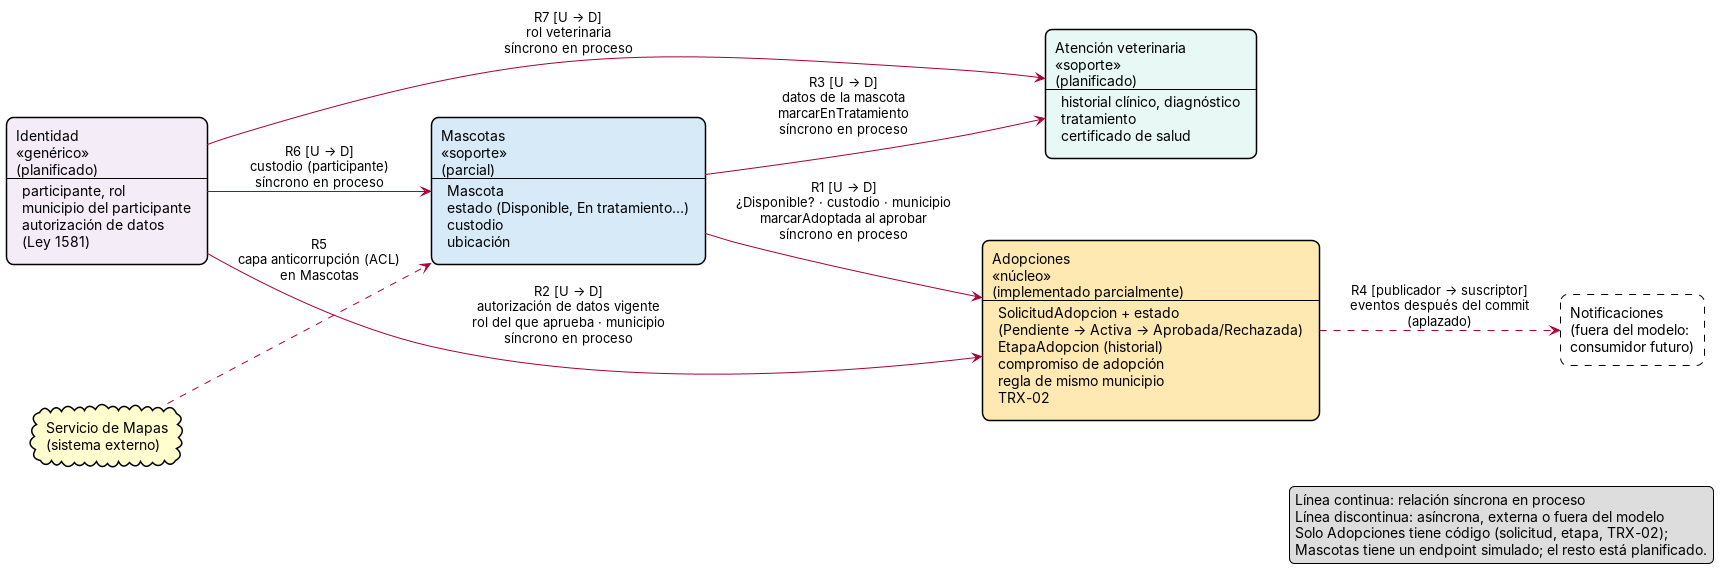
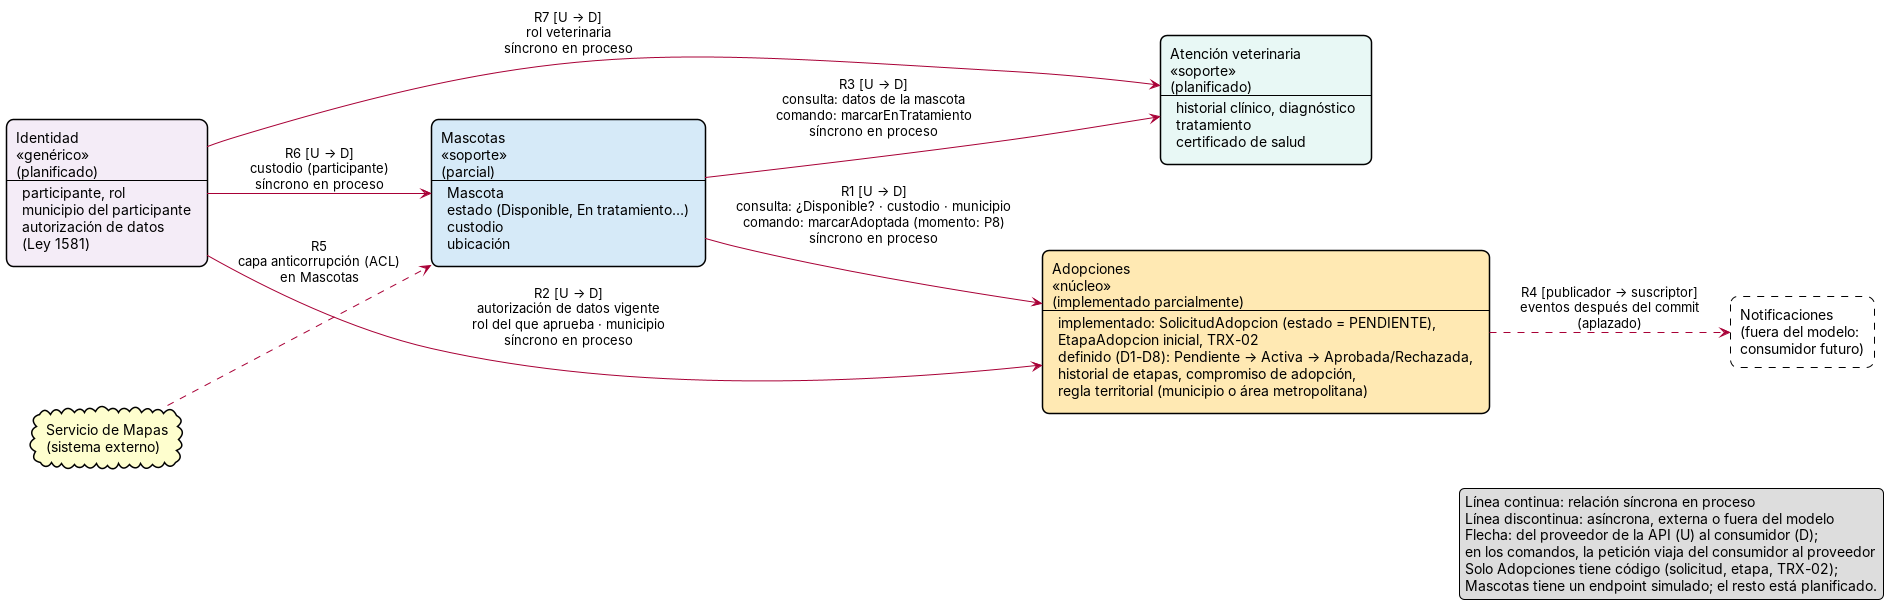
Atender auditoria de consistencia H1-H7 del modelo del dominio
- H1: tabla de operaciones por relacion (consulta/comando, proveedor/consumidor)
- H3: separar lo implementado (estado PENDIENTE, etapa inicial, TRX-02) de D1-D8
- H4: formulacion canonica de la regla territorial (municipio o area metropolitana)
- H5: alcance de la atomicidad: demostrado vs propuesto
- H7: razones de negocio separadas del estado del codigo
- H2, H6 y parte de H4 quedan abiertos como P8, P9 y P10
- Nuevo docs/dominio/auditoria-consistencia.md con el seguimiento

diff --git a/docs/dominio/responsabilidades-contextos.md b/docs/dominio/responsabilidades-contextos.md
@@ -19,7 +19,7 @@ D1–D9 (decisiones del equipo) y P1–P7 (preguntas) están en
 | | |
 |---|---|
 | **Responsabilidad** | Gestionar la solicitud de adopción de una mascota concreta, desde que se recibe hasta que se aprueba, rechaza o cancela. |
-| **Posee** | `SolicitudAdopcion` y su estado (Pendiente, Activa, Aprobada, Rechazada, Cancelada; D1, D7); la regla de que adoptante y mascota estén en el mismo municipio o área metropolitana (D8); `EtapaAdopcion` como historial del proceso (D1); el compromiso de adopción (D5); la regla TRX-02; tablas `solicitud_adopcion` y `etapa_adopcion`. |
+| **Posee** | **Implementado:** `SolicitudAdopcion` con el campo `estado` y valor inicial `PENDIENTE` (RO1); `EtapaAdopcion` inicial (RO2); la regla TRX-02 que las escribe juntas (RO3); tablas `solicitud_adopcion` y `etapa_adopcion`. **Definido por el equipo, no implementado:** el ciclo de estados Pendiente → Activa → Aprobada / Rechazada, y Cancelada (D1, D7); el historial de etapas (D1); el compromiso de adopción (D5); la regla territorial: adoptante y mascota en el mismo municipio o la misma área metropolitana (D8). |
 | **No posee** | El estado y el ciclo de vida de la mascota (D3); la autorización de tratamiento de datos (D5); los datos personales del adoptante; el historial clínico. |
 | **Por qué esta frontera** | La solicitud avanza por etapas sin que la mascota cambie (D1), y TRX-02 exige que solicitud y etapa se escriban en una sola transacción (QA-02, verificado por `AdopcionControllerRollbackIntegrationTest`). Mientras ambas vivan en el mismo contexto, la atomicidad no necesita coordinación entre contextos. |
 | **Evidencia** | HECHO para solicitud, estado, etapa y TRX-02 (RO1–RO3). DECISIÓN para el historial de etapas, la referencia a la mascota y el compromiso (D1, D2, D5). |
@@ -69,13 +69,47 @@ síncrona/asíncrona de cada una se justifica en
 
 | # | Relación | Patrón | Qué fluye y en qué dirección | Mecanismo | Estado |
 |---|---|---|---|---|---|
-| R1 | Mascotas → Adopciones | Cliente/Proveedor (Mascotas upstream) | Antes de crear la solicitud, Adopciones pregunta si la mascota está Disponible (D2, D6), quién es su custodio (D4) y en qué municipio está (D8). Al aprobar la adopción, Adopciones pide a Mascotas `marcarAdoptada(mascotaId)`; Mascotas cambia su propio estado (P5). Mascotas nunca lee solicitudes. | Síncrono en proceso: servicio público `MascotaService` (ADR-02, ADR-03 Decisión 3) | Planificada: hoy Adopciones no recibe `mascotaId` |
+| R1 | Mascotas → Adopciones | Cliente/Proveedor (Mascotas upstream) | Antes de crear la solicitud, Adopciones pregunta si la mascota está Disponible (D2, D6), quién es su custodio (D4) y en qué municipio está (D8). Cuando la adopción se aprueba o se concreta (el momento exacto está abierto, P8), Adopciones pide a Mascotas `marcarAdoptada(mascotaId)`; Mascotas cambia su propio estado (P5). Mascotas nunca lee solicitudes. | Síncrono en proceso: servicio público `MascotaService` (ADR-02, ADR-03 Decisión 3) | Planificada: hoy Adopciones no recibe `mascotaId` |
 | R2 | Identidad → Adopciones | Cliente/Proveedor (Identidad upstream) | Adopciones pregunta si el adoptante tiene autorización de datos vigente (QA-01, D5), en qué municipio vive (D8) y si quien aprueba tiene rol de custodio (D4). Solo guarda identificadores. | Síncrono en proceso | Planificada |
 | R3 | Mascotas → Atención veterinaria | Cliente/Proveedor (Mascotas upstream) | Atención veterinaria consulta la identidad y el estado de la mascota atendida. Si detecta una enfermedad, pide a Mascotas `marcarEnTratamiento(mascotaId)`; Mascotas cambia su propio estado y la mascota deja de poder solicitarse (D9). | Síncrono en proceso | Planificada |
 | R4 | Adopciones → Notificaciones | Publicador/Suscriptor (Adopciones upstream) | Adopciones publica hechos como `SolicitudAdopcionAvanzoDeEtapa`; un futuro consumidor decide a quién avisar. **Notificaciones está fuera del modelo** (`modelo-dominio.md` §6): la relación se conserva solo como diseño del evento. | Asíncrono: evento después del commit ([`eventos-candidatos.md`](../integracion/eventos-candidatos.md)) | Aplazada (ADR-03, Alternativa B) |
-| R5 | Servicio de Mapas → Mascotas | Capa anticorrupción (ACL) en Mascotas | Mascotas traduce coordenadas y distancias del proveedor externo a su propio modelo. Solo sirve para buscar; la regla de mismo municipio (D8) se valida con el municipio registrado, no con el proveedor. | Llamada HTTP externa detrás de un adaptador | Planificada; hoy simulada |
+| R5 | Servicio de Mapas → Mascotas | Capa anticorrupción (ACL) en Mascotas | Mascotas traduce coordenadas y distancias del proveedor externo a su propio modelo. Solo sirve para buscar; la regla territorial (D8) se valida con el municipio registrado de la mascota y del adoptante, no con el proveedor. | Llamada HTTP externa detrás de un adaptador | Planificada; hoy simulada |
 | R6 | Identidad → Mascotas | Cliente/Proveedor (Identidad upstream) | Mascotas registra el custodio de cada animal como identificador de un participante con rol de custodio (D4). | Síncrono en proceso | Planificada |
 | R7 | Identidad → Atención veterinaria | Cliente/Proveedor (Identidad upstream) | Atención veterinaria verifica que quien registra el historial clínico o pide "En tratamiento" es un participante con rol de veterinaria (D4, D9). | Síncrono en proceso | Planificada |
+
+### Operaciones de cada relación
+
+La flecha del Context Map va del **proveedor** (upstream, el contexto que
+ofrece la operación en su API pública) al **consumidor** (downstream, el
+que la invoca). No indica hacia dónde viaja la petición: en un **comando**
+el consumidor pide un cambio que el proveedor decide y registra; en una
+**consulta** el proveedor solo entrega datos.
+
+| Relación | Operación (ofrecida por el proveedor) | Proveedor | Consumidor | Tipo | Qué viaja y hacia dónde |
+|---|---|---|---|---|---|
+| R1 | `consultarDisponibilidad(mascotaId)` | Mascotas | Adopciones | Consulta | Mascotas → Adopciones: estado, custodio, municipio |
+| R1 | `marcarAdoptada(mascotaId)` | Mascotas | Adopciones | Comando | Adopciones → Mascotas: la petición; Mascotas cambia su propio estado |
+| R2 | consultar participante (autorización de datos, rol, municipio) | Identidad | Adopciones | Consulta | Identidad → Adopciones |
+| R3 | `consultarMascota(mascotaId)` | Mascotas | Atención veterinaria | Consulta | Mascotas → Atención veterinaria: identidad y estado de la mascota |
+| R3 | `marcarEnTratamiento(mascotaId)` | Mascotas | Atención veterinaria | Comando | Atención veterinaria → Mascotas: la petición; Mascotas cambia su propio estado (D9) |
+| R6 | consultar participante con rol de custodio | Identidad | Mascotas | Consulta | Identidad → Mascotas |
+| R7 | consultar participante con rol de veterinaria | Identidad | Atención veterinaria | Consulta | Identidad → Atención veterinaria |
+
+R1 y R3 tienen una consulta y un comando cada una, pero el proveedor es el
+mismo (Mascotas): el estado de la mascota tiene un único dueño, y los demás
+contextos solo pueden pedir que cambie. Por eso cada relación conserva una
+sola flecha.
+
+### Alcance de la atomicidad entre contextos
+
+| | Qué garantiza | Respaldo |
+|---|---|---|
+| **Demostrado hoy** | Solicitud y etapa inicial se escriben juntas o no se escribe ninguna (TRX-02). Es una garantía **interna de Adopciones** | HECHO: `@Transactional` en `AdopcionService` y `AdopcionControllerRollbackIntegrationTest` (RO3) |
+| **Propuesto, no implementado** | "En la misma transacción" (P5) significa **la misma transacción de base de datos**: `AdopcionService` abre la transacción y `MascotaService.marcarAdoptada` participa en ella (propagación por defecto de Spring). Si `marcarAdoptada` falla, también se revierte el cambio de la solicitud, así que no puede quedar una solicitud aprobada con la mascota Disponible | DECISIÓN técnica. Es posible porque ambos módulos comparten proceso y base de datos (ADR-01). Se verificaría con la métrica Y2 del spike de integración propuesto |
+
+Esta garantía depende de que Mascotas siga en el mismo proceso. Si se
+separa, deja de existir una transacción común y habría que usar otro
+mecanismo (por ejemplo, una tabla outbox con compensación).
 
 **Reglas que hacen cumplir estas relaciones** (ADR-02): ningún contexto
 importa repositorios ni modelos de otro; solo servicios públicos o DTOs de
@@ -102,9 +136,9 @@ flowchart LR
   NOT["Notificaciones<br/>(fuera del modelo)"]
   MAPS[("Servicio de Mapas<br/>externo")]
 
-  MAS -- "R1 · U→D · ¿Disponible? · custodio · municipio / marcarAdoptada<br/>síncrono en proceso" --> ADO
+  MAS -- "R1 · U→D · consulta: ¿Disponible? / comando: marcarAdoptada<br/>síncrono en proceso" --> ADO
   IDE -- "R2 · U→D · autorización de datos · rol · municipio<br/>síncrono en proceso" --> ADO
-  MAS -- "R3 · U→D · datos de la mascota / marcarEnTratamiento<br/>síncrono en proceso" --> VET
+  MAS -- "R3 · U→D · consulta: datos / comando: marcarEnTratamiento<br/>síncrono en proceso" --> VET
   IDE -- "R6 · U→D · custodio<br/>síncrono en proceso" --> MAS
   IDE -- "R7 · U→D · rol veterinaria<br/>síncrono en proceso" --> VET
   ADO -. "R4 · eventos después del commit<br/>(consumidor futuro)" .-> NOT
@@ -115,7 +149,8 @@ flowchart LR
 
 Flecha continua = relación síncrona; discontinua = asíncrona, externa o
 fuera del modelo. La flecha va del proveedor (upstream) al consumidor
-(downstream).
+(downstream), aunque en los comandos la petición viaje en sentido contrario
+(ver *Operaciones de cada relación*).
 
 ---
 

diff --git a/docs/dominio/modelo-dominio.md b/docs/dominio/modelo-dominio.md
@@ -103,15 +103,15 @@ veterinarias o usuarios es hoy conceptual.
 
 | Término | Lo que muestra el repositorio | Definición adoptada |
 |---|---|---|
-| Estado de la solicitud | Campo `String`; valor por defecto `PENDIENTE` | Resultado global de la solicitud: Pendiente, Activa, Aprobada, Rechazada, Cancelada (D1, D7) |
+| Estado de la solicitud | Campo `String`; valor por defecto `PENDIENTE` (HECHO, RO1) | Resultado global de la solicitud: Pendiente, Activa, Aprobada, Rechazada, Cancelada (DECISIÓN D1, D7). Solo existen el campo y el valor inicial; los demás valores y sus transiciones no están en el código |
 | Etapa | `nombreEtapa` + `fechaCambio`; valor por defecto `SOLICITUD_RECIBIDA` | Paso del proceso; el conjunto de etapas es el historial (D1) |
 | Mascota | Solo endpoint simulado | Animal con ciclo de vida propio, independiente de las solicitudes (D3) |
-| Fundación / refugio | Se usan en distintos documentos | Mismo rol: custodio del animal (D4) |
-| Veterinaria | Actor y módulo futuro | Participante con rol de soporte médico, sin autoridad sobre la adopción (D4) |
+| Fundación / refugio | Se usan en distintos documentos | Mismo rol: custodio del animal (D4). **Por definir (P9):** si el custodio es siempre una organización y quién actúa en su nombre |
+| Veterinaria | Actor y módulo futuro | Participante con rol de soporte médico, sin autoridad sobre la adopción (D4). **Por definir (P9):** si es la persona profesional, la clínica o ambas, y quién recibe los permisos |
 | Consentimiento | Opt-In en QA-01 | Dos conceptos distintos: autorización de tratamiento de datos y compromiso de adopción (D5) |
 | Disponible | Aparece en QA-03 ("mascotas disponibles") | Único estado de la mascota que permite iniciar una solicitud (D6) |
 | Pendiente / Activa | `PENDIENTE` en el código; "Activa" en D1 | Dos estados distintos: Pendiente = nadie la ha revisado; Activa = un custodio la está revisando (D7) |
-| Ubicación | Parámetros `lat`, `lng`, `radio` del endpoint simulado | Sirve para buscar y además limita la adopción al mismo municipio o área metropolitana (D8) |
+| Ubicación | Parámetros `lat`, `lng`, `radio` del endpoint simulado | Sirve para buscar y además limita la adopción al mismo municipio o área metropolitana (D8). **Por definir (P10):** qué cuenta como área metropolitana y con qué dato se verifica |
 | Adoptante / ciudadano / usuario final | Usados como sinónimos | **FALTANTE**; se tratan como el mismo actor hasta que se decida lo contrario |
 
 ---
@@ -195,8 +195,11 @@ seguimiento después, y las fundaciones no tienen cómo hacerlas en otras
 regiones.
 *Consecuencia:* la ubicación de la mascota (municipio y coordenadas para
 buscar) pertenece a Mascotas; el municipio del adoptante, a Identidad; la
-regla "mismo municipio" es del proceso de adopción y pertenece a
-Adopciones, que la valida con datos de los otros dos (R1, R2). Las visitas
+regla territorial es del proceso de adopción y pertenece a
+Adopciones, que la valida con datos de los otros dos (R1, R2).
+*Formulación canónica:* "adoptante y mascota deben estar en el mismo
+municipio o en la misma área metropolitana". Todos los documentos usan esta
+frase; qué cuenta como área metropolitana queda abierto (P10). Las visitas
 de seguimiento son etapas posteriores a la entrega (D1).
 
 **D9 — La veterinaria puede poner a una mascota "En tratamiento".**
@@ -216,9 +219,13 @@ tiene rol de veterinaria (R7).
 
 De la evidencia (§2) y las decisiones (§5) emergen **cuatro** contextos:
 
+En la columna *Posee*, solo lo marcado con RO tiene código. Lo marcado con
+D son conceptos que el contexto poseerá según las decisiones del equipo;
+todavía no están implementados.
+
 | Contexto | Posee | No posee | Respaldo |
 |---|---|---|---|
-| **Adopciones** | Solicitud, estado (D7), etapa (historial), compromiso de adopción, regla de mismo municipio (D8) | Ciclo de vida de la mascota, autorización de datos, identidad del adoptante | Código (RO1–RO3) + D1, D2, D5, D7, D8 |
+| **Adopciones** | Solicitud con campo `estado` y valor inicial `PENDIENTE` (RO1); etapa inicial y atomicidad con la solicitud (RO2, RO3); ciclo de estados Pendiente → Activa → Aprobada / Rechazada, y Cancelada (D1, D7); historial de etapas (D1); compromiso de adopción (D5); regla territorial: mismo municipio o área metropolitana (D8) | Ciclo de vida de la mascota, autorización de datos, identidad del adoptante | Código (RO1–RO3) + D1, D2, D5, D7, D8 |
 | **Mascotas** | Mascota, estado de la mascota (incluido Disponible), custodio, ubicación | Solicitudes y etapas, historial clínico | D3, D4, D6, D8 |
 | **Atención veterinaria** | Historial clínico, diagnóstico, tratamiento, certificado de salud | Aprobación de solicitudes; el estado de la mascota (puede pedir "En tratamiento", pero lo registra Mascotas) | D4, D9 |
 | **Identidad** | Participante (adoptante, custodio, veterinaria), rol, municipio del participante, autorización de tratamiento de datos | Compromiso de adopción, estado de mascotas | QA-01 (RO6) + D4, D5, D8 |
@@ -248,9 +255,12 @@ Justificación de cada frontera, relaciones y Context Map:
 | P2 | ¿`PENDIENTE` equivale a "Activa" o es otro estado? | **Resuelta** (D7) |
 | P3 | ¿La geolocalización cambia alguna regla de negocio o solo sirve para buscar? | **Resuelta** (D8) |
 | P4 | ¿Una veterinaria puede cambiar el estado de la mascota o solo lo informa? | **Resuelta** (D9) |
-| P5 | Cuando se aprueba una adopción, ¿qué le pasa al estado de la mascota y quién lo cambia? | **Resuelta:** Adopciones llama de forma síncrona a `MascotaService.marcarAdoptada(mascotaId)` en la misma transacción; Mascotas cambia su propio estado ([`eventos-candidatos.md`](../integracion/eventos-candidatos.md) §2) |
+| P5 | Cuando se aprueba una adopción, ¿qué le pasa al estado de la mascota y quién lo cambia? | **Resuelta en parte:** Mascotas cambia su propio estado cuando Adopciones llama de forma síncrona a `MascotaService.marcarAdoptada(mascotaId)`, dentro de la misma transacción de base de datos que actualiza la solicitud (alcance en [`responsabilidades-contextos.md`](./responsabilidades-contextos.md) §2, *Alcance de la atomicidad entre contextos*). **Falta definir en qué momento** (P8) |
 | P6 | ¿Quién pone a una mascota en "Reservada" y cuándo? ¿Puede haber varias solicitudes Pendientes o Activas para la misma mascota? | Abierta. Define si crear o activar una solicitud cambia el estado de la mascota |
 | P7 | Si una mascota pasa a "En tratamiento" (D9) mientras tiene solicitudes Pendientes o Activas, ¿qué les pasa a esas solicitudes? | Abierta. Si se pausan, Adopciones necesita enterarse del cambio; es un candidato a evento (`MascotaPuestaEnTratamiento`) |
+| P8 | ¿Qué diferencia hay entre una solicitud **Aprobada** y una **adopción concretada**? ¿En qué orden ocurren la aprobación, la firma del compromiso (D5), la entrega y el seguimiento (D1)? ¿Cuándo cambia la mascota a "Adoptada" y qué estado tiene entre la aprobación y la entrega? | Abierta. Los documentos hoy mezclan los tres momentos (auditoría H2): R1 habla de "al aprobar" y `eventos-candidatos.md` de "al concretar" |
+| P9 | ¿"Veterinaria" es la persona profesional, la clínica o ambas? ¿El custodio es siempre una organización? ¿Los permisos se asignan a personas, a organizaciones o a ambas? | Abierta (auditoría H6) |
+| P10 | ¿Qué cuenta como "área metropolitana" en D8 y con qué dato se verifica? ¿Dos municipios distintos de la misma área cumplen la regla? | Abierta (auditoría H4) |
 
 ---
 
@@ -258,6 +268,7 @@ Justificación de cada frontera, relaciones y Context Map:
 
 - [`subdominios.md`](./subdominios.md) — clasificación de subdominios.
 - [`responsabilidades-contextos.md`](./responsabilidades-contextos.md) — Posee / No posee, relaciones y Context Map.
+- [`auditoria-consistencia.md`](./auditoria-consistencia.md) — seguimiento de los hallazgos H1–H7 de la auditoría del tutor.
 - `dossier/01-contexto-sistema.md`, `dossier/02-stakeholders-drivers.md`, `dossier/05`–`07` (C4 as-is)
 - `dossier/15-diseno-modular-s7.md` (to-be; usado solo para contrastar, no como punto de partida)
 - `adr/adr-02-modularidad.md`, `adr/adr-03-limites-y-comunicacion-modulos.md`

diff --git a/docs/dominio/subdominios.md b/docs/dominio/subdominios.md
@@ -37,12 +37,17 @@ según el código de `main`.
 
 ## 2. Clasificación de subdominios
 
-| Subdominio | Tipo | Por qué ese tipo | Estado en el código |
+| Subdominio | Tipo | Razones de negocio (independientes del código) | Estado en el código (no influye en el tipo) |
 |---|---|---|---|
-| **Adopciones** | **Núcleo (core)** | Es el propósito del sistema (`dossier/01`: "transparentar los procesos de adopción"). Contiene la única regla crítica implementada (TRX-02, QA-02) y las reglas de proceso propias de Patitas Urbanas: etapas (D1), custodio que aprueba (D4) y compromiso de adopción (D5). | **Implementado** parcialmente: solicitud, etapa inicial y TRX-02; tablas `solicitud_adopcion` y `etapa_adopcion` |
-| **Mascotas** | Soporte | Necesario para adoptar (D2: toda solicitud es por una mascota; D6: solo si está Disponible), con ciclo de vida propio (D3), pero no es lo que diferencia al sistema. | **Parcial**: solo `MascotaController` con respuesta simulada; no hay entidad `Mascota` |
-| **Atención veterinaria** | Soporte | Complementa el cuidado de la mascota (D4: historial clínico, tratamientos, certificados) sin intervenir en la decisión de adopción. | **Planificado**: ninguna clase |
-| **Identidad** | Genérico | Participantes, roles y autorización de tratamiento de datos (QA-01, Ley 1581; D5). Es un problema resuelto en cualquier plataforma; no aporta diferenciación. | **Planificado**: no hay autenticación ni entidad de usuario |
+| **Adopciones** | **Núcleo (core)** | Es la razón de ser del producto (`dossier/01`: "optimizar y transparentar los procesos de adopción"). Concentra las reglas propias de Patitas Urbanas, que no se resuelven con una solución existente: etapas con visitas domiciliarias y seguimiento (D1), solo el custodio aprueba (D4), compromiso de adopción (D5), estados de revisión (D7) y regla territorial (D8). Fundaciones y refugios exigen que el registro de cada adopción sea íntegro (QA-02, `dossier/02` §1). | **Implementado** parcialmente: solicitud, etapa inicial y TRX-02; tablas `solicitud_adopcion` y `etapa_adopcion` |
+| **Mascotas** | Soporte | Sin mascotas registradas no hay adopción (D2, D6) y su ciclo de vida tiene reglas propias (D3, D9), pero llevar un registro de animales y su estado no es lo que distingue a Patitas Urbanas: el propósito del producto es el proceso de adopción, no el catálogo. | **Parcial**: solo `MascotaController` con respuesta simulada; no hay entidad `Mascota` |
+| **Atención veterinaria** | Soporte | El propósito declara "integrar servicios veterinarios" (`dossier/01`) para apoyar la adopción: certifica la salud que permite que una mascota esté Disponible y puede pausarla (D4, D6, D9). No decide la adopción ni es la razón de ser del producto. | **Planificado**: ninguna clase |
+| **Identidad** | Genérico | Registrar participantes, asignar roles y guardar la autorización de tratamiento de datos (QA-01, Ley 1581; D5) es una necesidad común a cualquier plataforma con usuarios; puede resolverse con una solución existente sin que el producto pierda lo que lo distingue. | **Planificado**: no hay autenticación ni entidad de usuario |
+
+La clasificación se sostiene por las razones de negocio de la tercera
+columna. El estado del código se muestra solo como información: que
+Adopciones sea el único contexto con código no es la razón de que sea el
+núcleo.
 
 **Fuera del dominio modelado:**
 
@@ -64,7 +69,7 @@ negocio propios, según el criterio de admisión de ADR-02.
 | "Etapas de adopción" como contexto propio | D1: la etapa es el historial de la solicitud, no un concepto independiente. Además, solicitud y etapa deben escribirse en la misma transacción (TRX-02); separarlas rompería QA-02. |
 | "Fundaciones" o "Refugios" como contexto propio | D4: fundación y refugio cumplen el mismo rol (custodio). Son participantes de Identidad y la custodia de cada animal la registra Mascotas. Se reconsidera si aparecen reglas propias de fundaciones (cupos, verificación). |
 | "Consentimiento" como contexto propio | D5: hay dos consentimientos con dueños distintos. La autorización de datos es de Identidad; el compromiso de adopción, de Adopciones. Un contexto aparte no tendría reglas propias. |
-| "Búsqueda geoespacial" como contexto propio | La búsqueda es una consulta sobre mascotas (R5). La única regla de ubicación —mismo municipio (D8)— es del proceso de adopción y vive en Adopciones; no queda nada propio para un contexto aparte. |
+| "Búsqueda geoespacial" como contexto propio | La búsqueda es una consulta sobre mascotas (R5). La única regla de ubicación —mismo municipio o misma área metropolitana (D8)— es del proceso de adopción y vive en Adopciones; no queda nada propio para un contexto aparte. |
 | "Notificaciones" como contexto | No tiene reglas de negocio: solo reaccionaría a hechos de otros contextos. Queda como consumidor futuro. |
 | Contexto por tabla de base de datos | Un contexto se define por responsabilidad y lenguaje, no por tabla. |
 

diff --git a/docs/dominio/auditoria-consistencia.md b/docs/dominio/auditoria-consistencia.md
@@ -1,0 +1,43 @@
+# Seguimiento de la auditoría de consistencia interna
+## Módulo 5 · Entregable 1
+
+El tutor auditó la consistencia entre `modelo-dominio.md`,
+`responsabilidades-contextos.md` y `subdominios.md` (2026-10-09) y registró
+los hallazgos H1–H7. Este documento lleva el estado de cada uno.
+
+Criterio aplicado, tomado de la auditoría: cuando un hallazgo exige una
+regla de negocio nueva, **no se resuelve en la documentación**; se registra
+como pregunta abierta para que la decida el equipo.
+
+---
+
+## Estado de los hallazgos
+
+| # | Hallazgo | Tipo | Estado | Qué se cambió |
+|---|---|---|---|---|
+| H1 | R3 mezcla la dirección de la consulta con la del comando | Redacción | **Atendido** | Nueva tabla *Operaciones de cada relación* en `responsabilidades-contextos.md` §2: cada operación con proveedor, consumidor, tipo (consulta o comando) y hacia dónde viaja. La leyenda del diagrama explica que la flecha va del proveedor al consumidor |
+| H2 | No está explícita la relación entre Aprobada, etapa final y adopción concretada | Regla de negocio | **Abierto → P8** | Se registró P8. P5 queda "resuelta en parte" y R1 dice que el momento de `marcarAdoptada` está por definir |
+| H3 | El estado de la solicitud se presenta como más implementado de lo que demuestra el código | Redacción | **Atendido** | Glosario, tabla de contextos, `Posee` de Adopciones y context map separan lo implementado (campo `estado`, valor `PENDIENTE`, etapa inicial, TRX-02) de lo definido en D1–D8 |
+| H4 | La regla territorial tiene dos formulaciones | Redacción + regla de negocio | **Redacción atendida; definición abierta → P10** | Frase canónica en D8 ("mismo municipio o misma área metropolitana") usada en todos los documentos de dominio. Qué cuenta como área metropolitana queda en P10. La misma corrección en `sincrono-vs-asincrono.md` se aplica en el PR del Entregable 2 para evitar conflictos |
+| H5 | "En la misma transacción" no precisa el alcance de la atomicidad | Redacción técnica | **Atendido** | Nueva sección *Alcance de la atomicidad entre contextos*: lo demostrado (TRX-02, interno de Adopciones) separado de lo propuesto (transacción de base de datos compartida con `marcarAdoptada`, verificable en el spike de integración) |
+| H6 | Custodio, fundación, refugio y veterinaria no tienen el mismo nivel de precisión | Regla de negocio | **Abierto → P9** | Se registró P9 y se marcó en el glosario |
+| H7 | La clasificación de subdominios mezcla importancia de negocio con evidencia técnica | Redacción | **Atendido; razones por validar** | La tabla de `subdominios.md` separa *razones de negocio* de *estado en el código*; la razón del núcleo ya no menciona TRX-02 implementada. El equipo debe confirmar que esas razones son las suyas (pregunta 7 del tutor) |
+
+---
+
+## Preguntas del tutor y dónde se responden
+
+| # | Pregunta | Respuesta |
+|---|---|---|
+| 1 | ¿Qué diferencia exacta hay entre una solicitud aprobada y una adopción concretada? | Pendiente del equipo (P8) |
+| 2 | ¿Qué operaciones ofrece Mascotas a Atención veterinaria y en qué dirección fluye cada una? | `responsabilidades-contextos.md` §2, *Operaciones de cada relación* (R3) |
+| 3 | ¿Qué garantía significa "en la misma transacción"? | `responsabilidades-contextos.md` §2, *Alcance de la atomicidad entre contextos* |
+| 4 | ¿La regla territorial permite municipios distintos de la misma área metropolitana? | Según la redacción de D8, sí; qué cuenta como área metropolitana está pendiente (P10) |
+| 5 | ¿Qué parte del ciclo de vida de la solicitud está implementada? | Solo el campo `estado` con valor inicial `PENDIENTE` y la etapa inicial (RO1–RO3). El ciclo completo es D1 y D7 |
+| 6 | ¿"Veterinaria" es persona, organización o rol? ¿Quién recibe los permisos? | Pendiente del equipo (P9) |
+| 7 | ¿Qué razones de negocio sostienen la clasificación de subdominios? | `subdominios.md` §2, columna *Razones de negocio*; pendiente de confirmación del equipo |
+
+---
+
+*Autores: Kevin Steven Torres Caro · Charry Ríos Daniel Estiven*
+*Módulo 5 · Arquitectura de Software*
